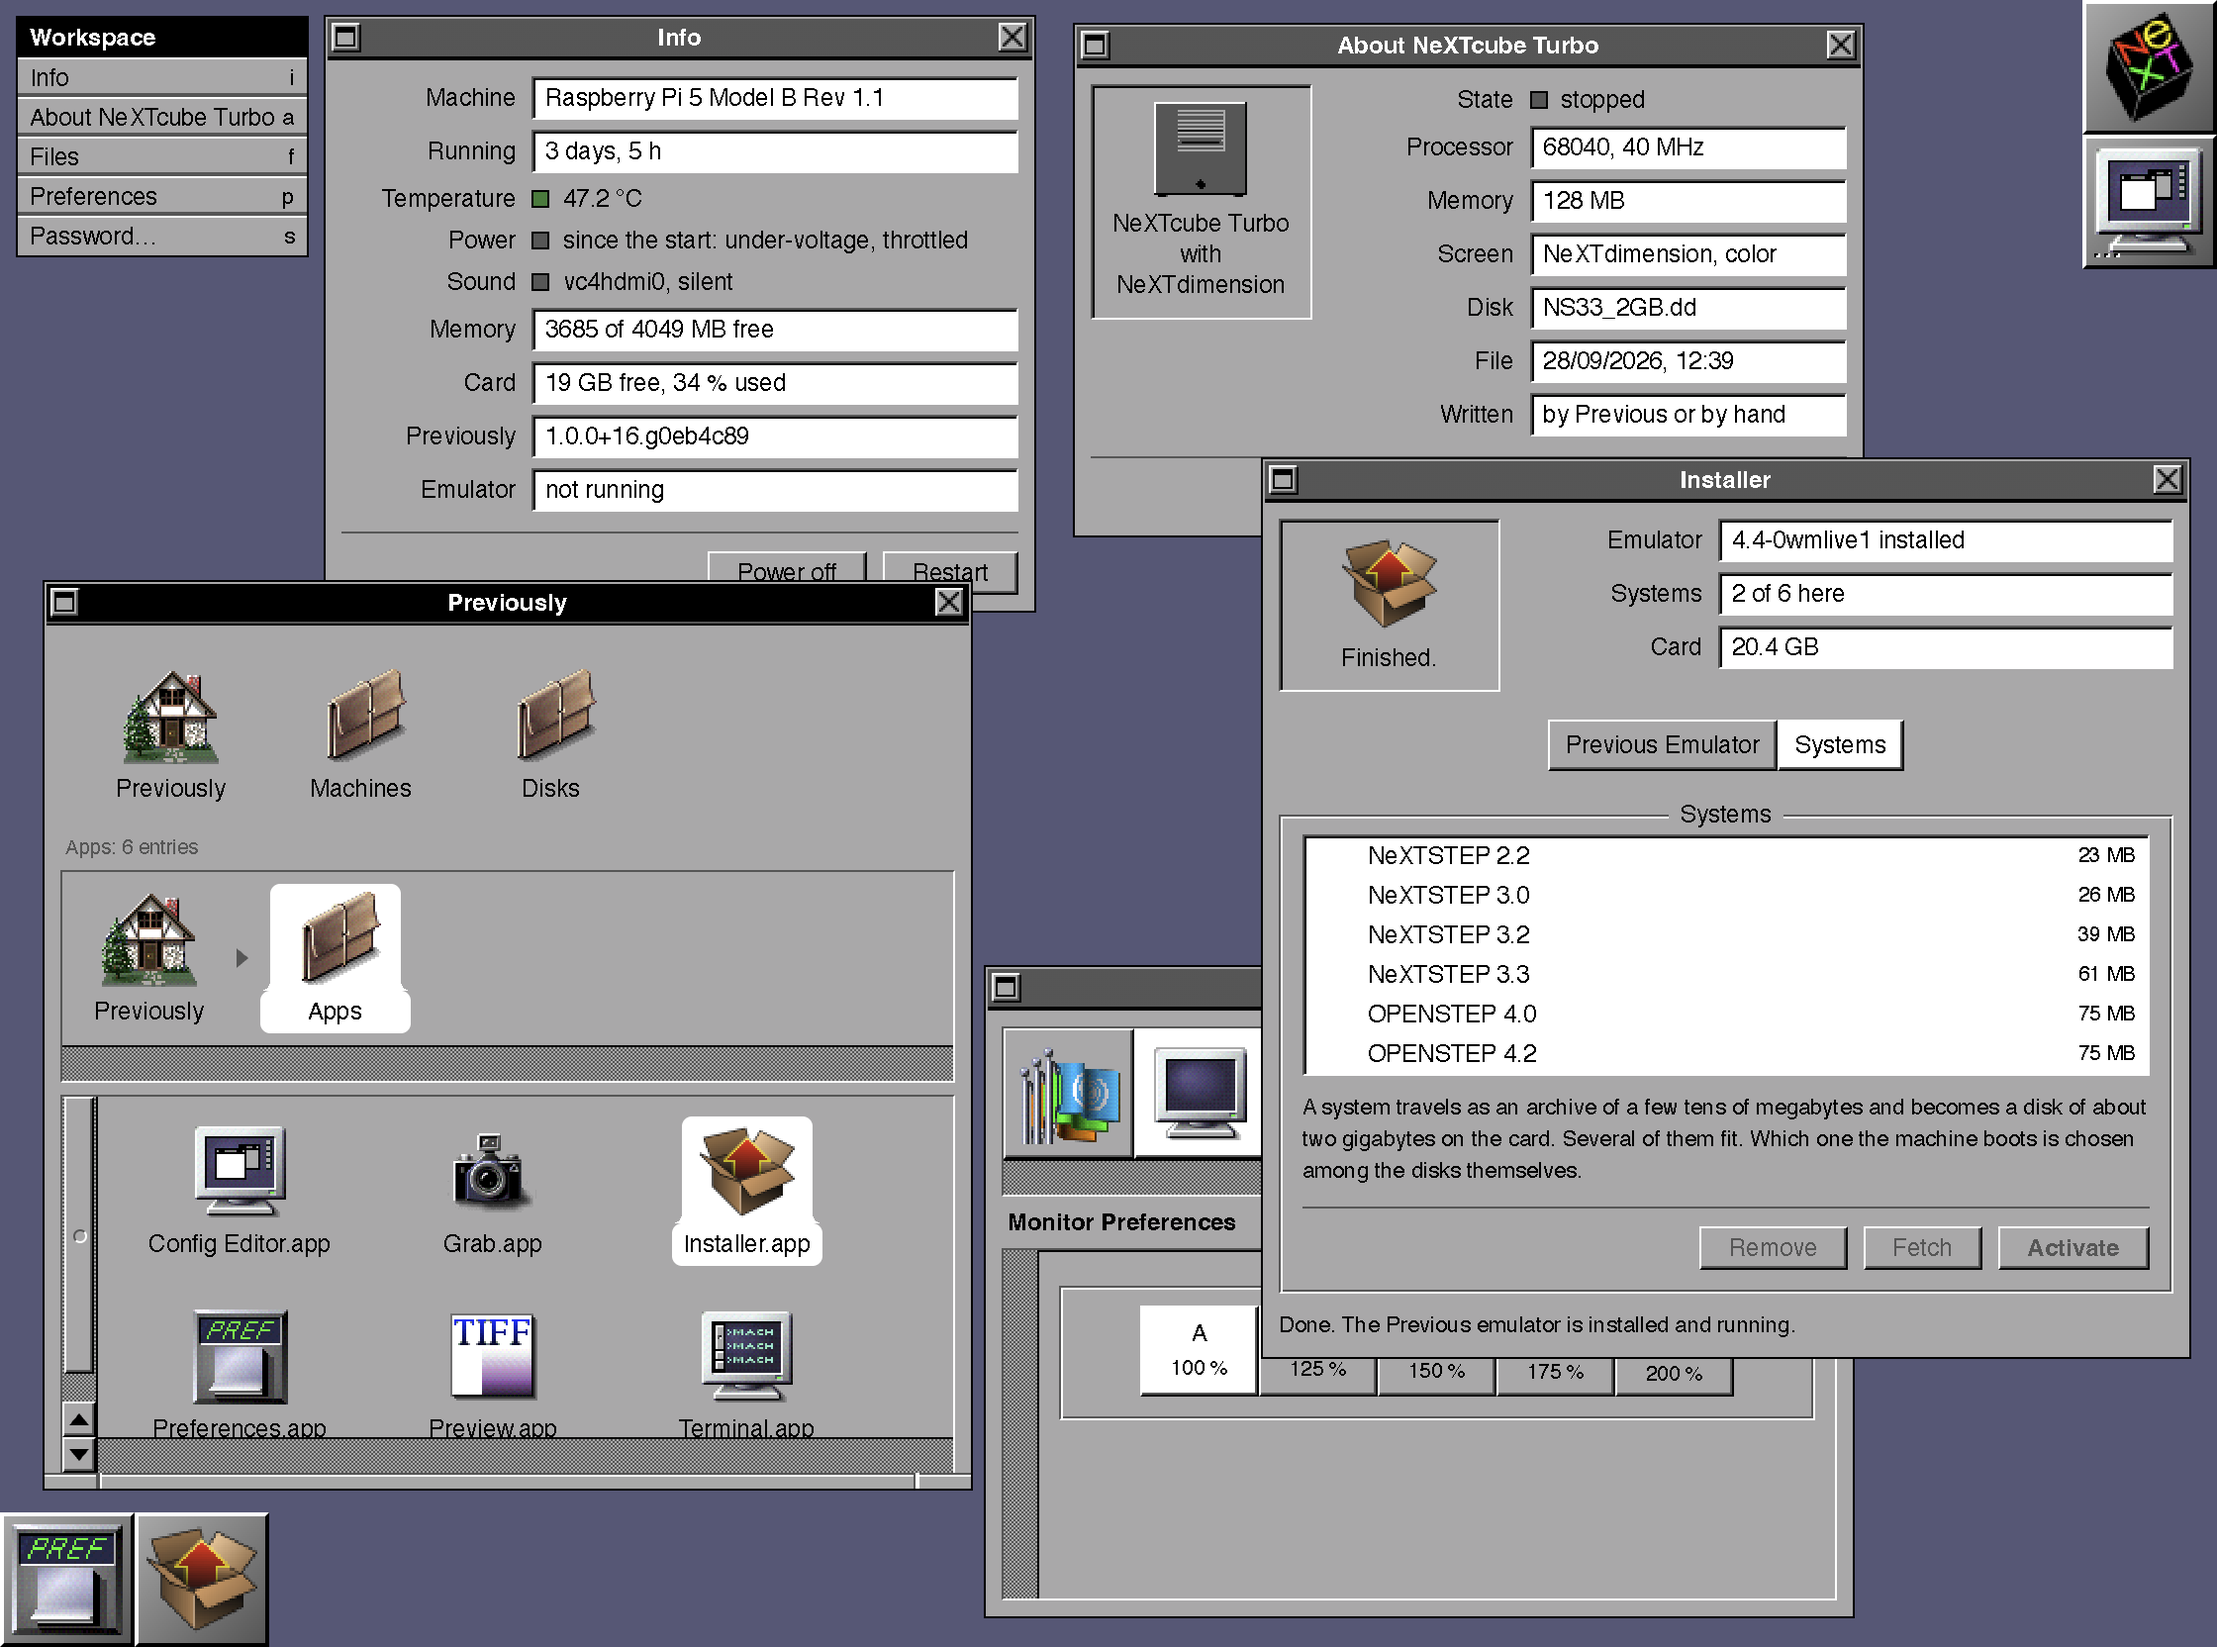
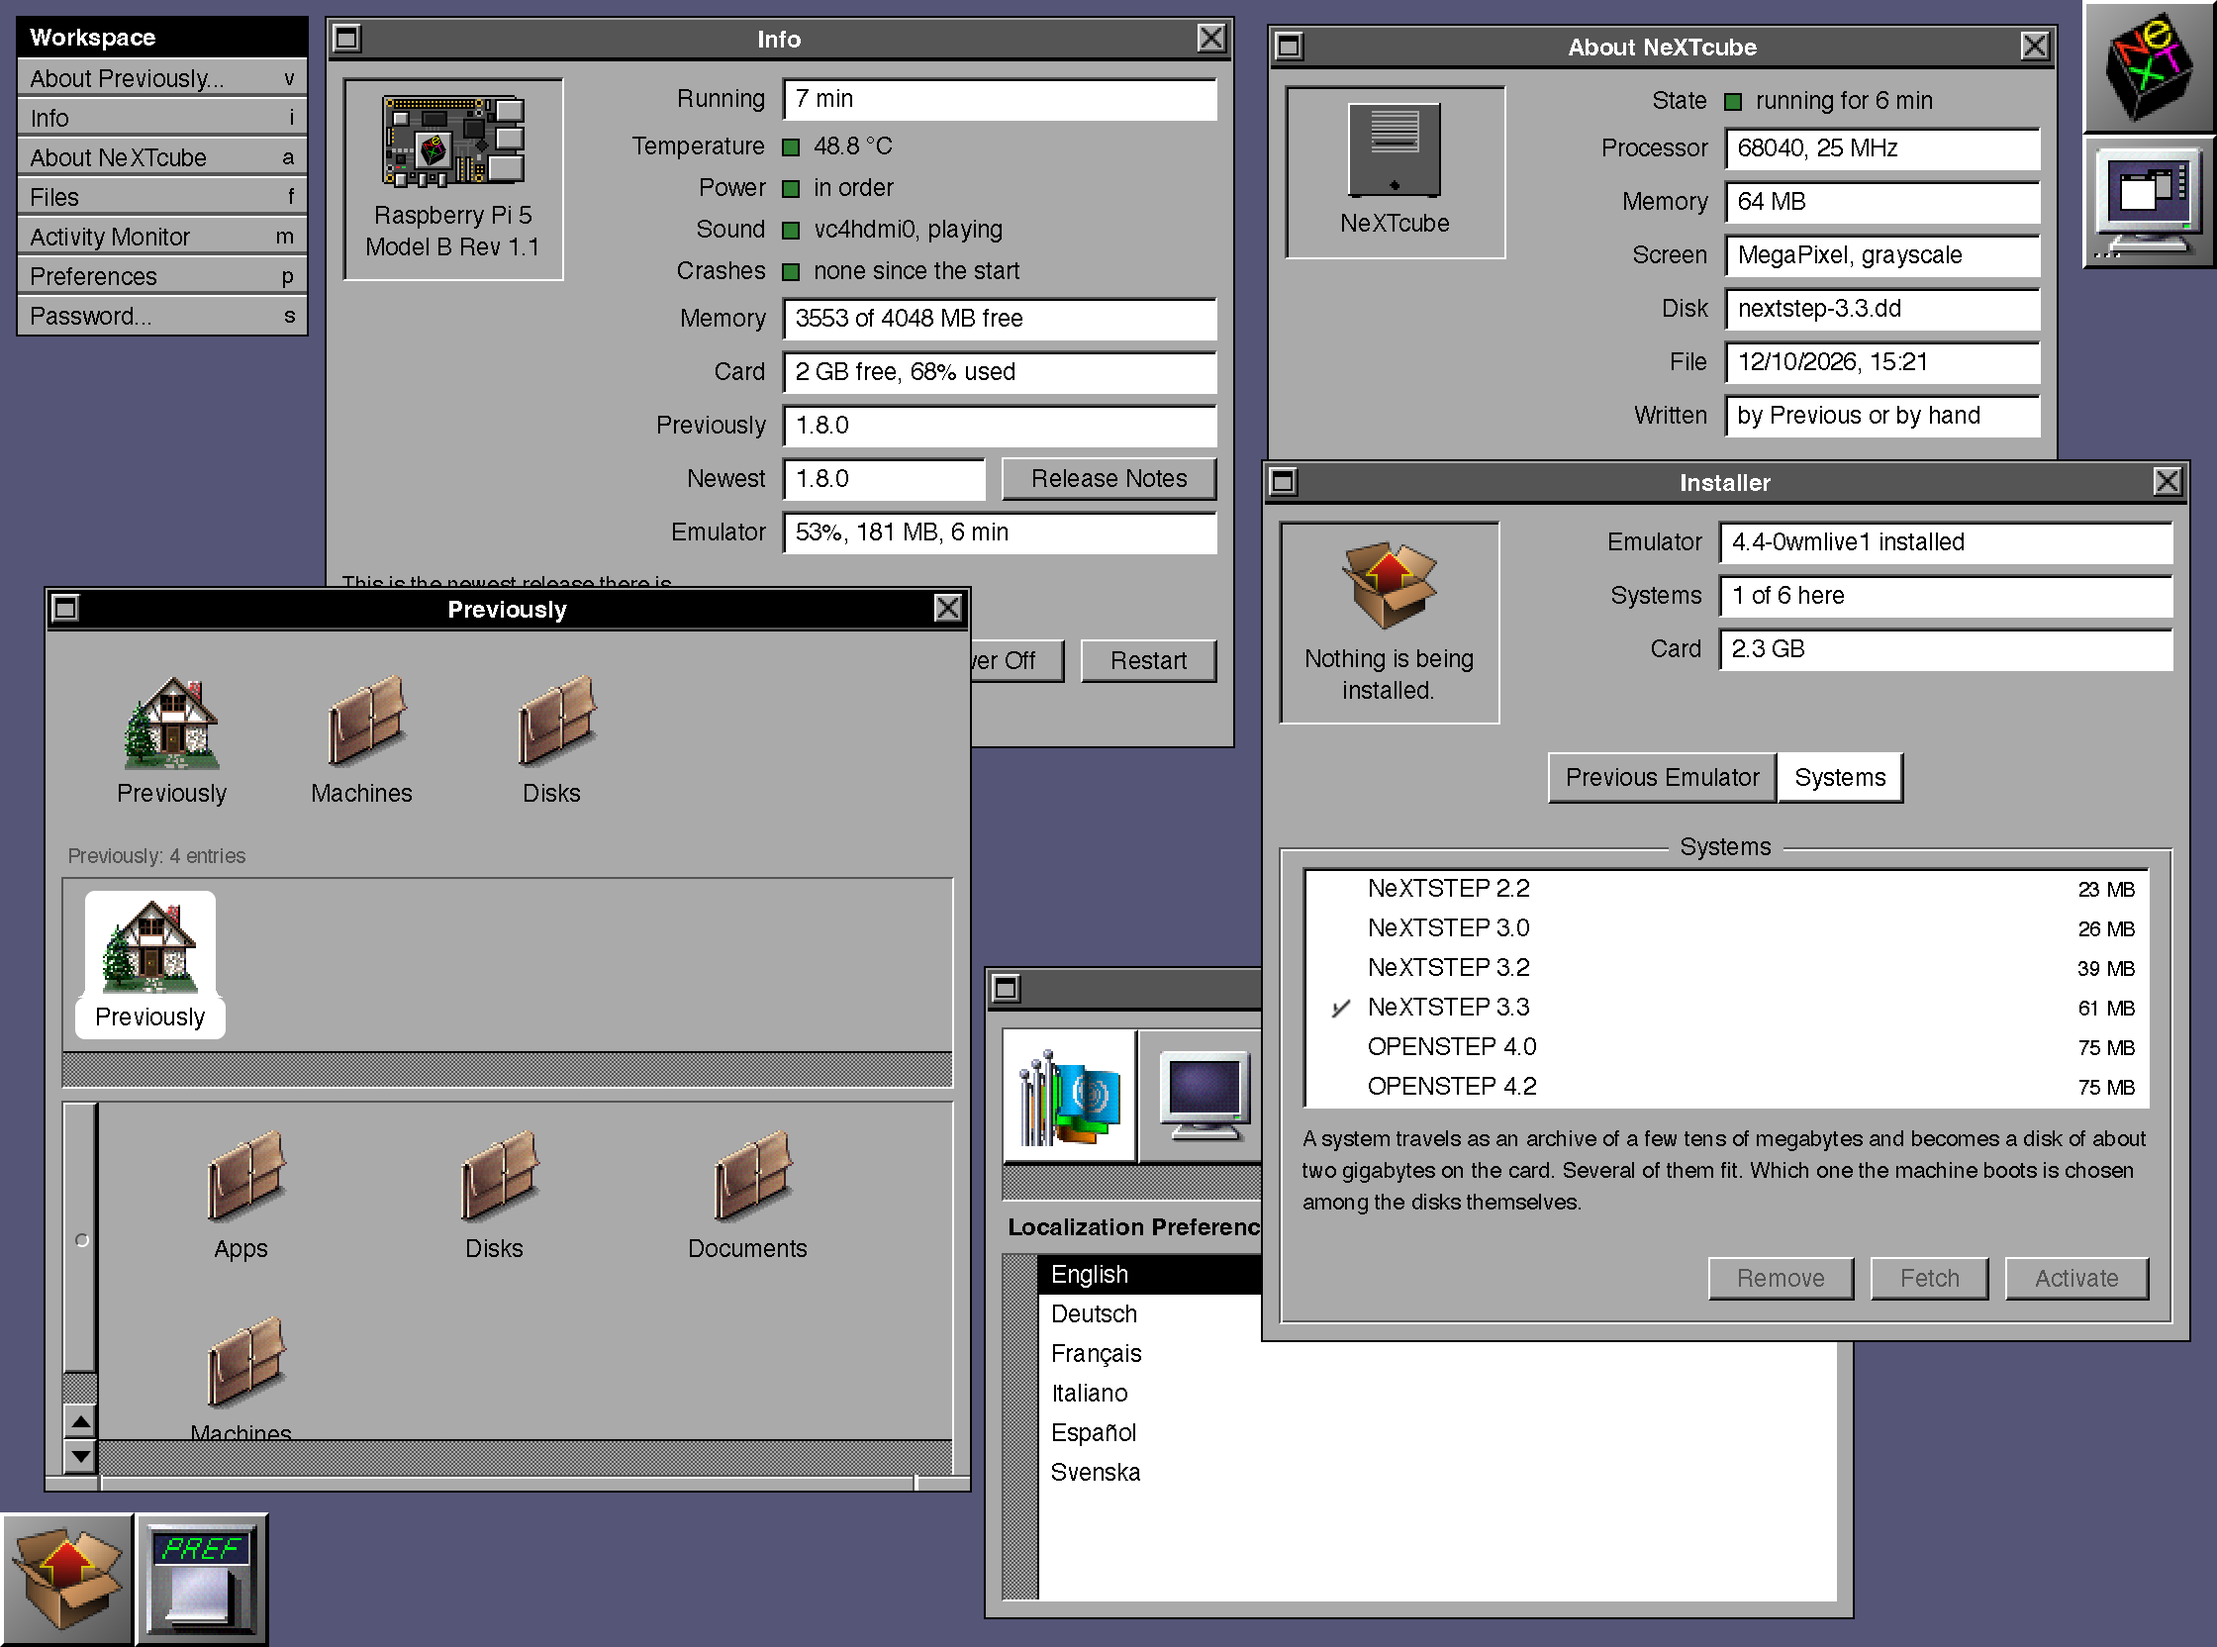
Feat: The page shows the admin of release 1.8.0 with the Raspberry Pi 5 on its Info window, and says what the installer does today
- The screenshot is taken again from next.local on 1.8.0, and the browser frame around it shows next.local:8810.
- The install steps say that the line installs the admin tool and then the rest, and Ctrl+C after that stops the watching rather than undoing anything.
- Safe to run again says what a rerun skips, without promising that any image in ~/nextstep is used.
- Color and gray are spelled the American way, and the page's locale is en_US.

Closes #36.

diff --git a/index.html b/index.html
@@ -22,7 +22,7 @@
 <meta property="og:image:width" content="1200">
 <meta property="og:image:height" content="630">
 <meta property="og:image:alt" content="A gray circuit board and the NeXT cube rushing at each other, each trailing a smear, with a pressed Merge button and the cursor that pressed it between them, over the name Previously and the line about a Raspberry Pi that boots directly into NeXTSTEP.">
-<meta property="og:locale" content="en_GB">
+<meta property="og:locale" content="en_US">
 
 <meta name="twitter:card" content="summary_large_image">
 <meta name="twitter:title" content="A Raspberry Pi that boots into NeXTSTEP">
@@ -100,7 +100,7 @@
 
         <p class="hero__lead">Previously starts straight into a NeXT machine under the
           Previous emulator. There is no desktop behind it, no login to get past, and
-          nothing on the screen but the grey NeXT panel.</p>
+          nothing on the screen but the gray NeXT panel.</p>
         <ul class="hero__facts">
           <li class="hero__fact">Raspberry Pi 4 or 5</li>
           <li class="hero__fact">Raspberry Pi OS Lite, 64 bit</li>
@@ -170,9 +170,10 @@
             <svg class="icon" aria-hidden="true"><use href="site/icons.svg#arrow-counter-clockwise"></use></svg>
           </div>
           <h3>An installation that undoes itself</h3>
-          <p class="card__text">Every step of the install script writes down how to undo
-            what it just did. Press Ctrl+C, or let a step fail, and it walks that record
-            backwards. Whatever was on the machine before is left where it was.</p>
+          <p class="card__text">Every step of the installation writes down how to undo
+            what it just did. When a step fails, it walks that record backwards, and
+            whatever was on the machine before is left where it was. The Installer window
+            in the admin then says what went wrong and can try again.</p>
         </article>
       </div>
     </div>
@@ -186,9 +187,9 @@
           The admin
         </p>
         <h2>It looks like the machine it configures</h2>
-        <p class="section__lead">Nothing here is approximated. The icons are the original
-          files out of a NeXTSTEP 3.3 disk image, the window buttons are cut pixel for
-          pixel out of the running system, and every colour, edge and raster is measured
+        <p class="section__lead">Nothing here is approximated. NeXTSTEP's icons are the
+          original files out of a NeXTSTEP 3.3 disk image, the window buttons are cut pixel
+          for pixel out of the running system, and every color, edge and raster is measured
           off it.</p>
       </div>
 
@@ -198,10 +199,10 @@
       <div class="browser">
         <div class="browser__bar">
           <div class="browser__lights" aria-hidden="true"><span></span><span></span><span></span></div>
-          <div class="browser__address">cube.local:8810</div>
+          <div class="browser__address">next.local:8810</div>
         </div>
         <img src="site/shots/workspace.png" width="2240" height="1664" loading="lazy"
-             alt="The admin tool in a browser: the Workspace menu, a panel of the Raspberry Pi's own readings, an Info panel for the emulated NeXTcube, a File Viewer showing the applications as icons, the Installer offering six systems to fetch, and Preferences behind them.">
+             alt="The admin tool in a browser: the Workspace menu, the Info window with a drawing of the Raspberry Pi 5 above its model and the board's readings, the About window of the emulated NeXTcube, a File Viewer of the Previously folder, the Installer listing the six systems with NeXTSTEP 3.3 checked, and the Localization module of Preferences behind it.">
       </div>
       <figcaption class="shot__caption">This is a recent screenshot of Previously. Not
         only does it look like NeXTSTEP, it feels like it, too. You'll love this admin
@@ -227,18 +228,19 @@
         <li class="step">
           <div class="step__body">
             <h3>Reach the Pi</h3>
-            <p class="step__text">Over SSH is the comfortable way, and it stays the way in
-              afterwards: the emulator owns the screen once this is done.</p>
+            <p class="step__text">Over SSH is the comfortable way. It stays the way in
+              afterwards, because the emulator owns the screen once this is done, and the
+              admin's Terminal window opens the same login in a browser.</p>
           </div>
         </li>
 
         <li class="step">
           <div class="step__body">
             <h3>Paste the line and let it finish</h3>
-            <p class="step__text">It installs the emulator from its own signed archive,
-              fetches a preinstalled disk image, writes the configuration, installs the
-              admin tool and hands the first console over. The image is NeXTSTEP 3.3, and
-              the admin swaps it for any of the six afterwards.</p>
+            <p class="step__text">It installs the admin tool, and then the emulator, a
+              preinstalled NeXTSTEP 3.3 disk, its configuration, the console and the sound,
+              and shows each step as it runs. At the end NeXTSTEP starts on the Pi's screen.
+              The admin swaps the system for any of the six afterwards.</p>
             <code class="snippet">curl -fsSL https://previous.li/install.sh | bash</code>
           </div>
         </li>
@@ -282,19 +284,21 @@
             <svg class="icon" aria-hidden="true"><use href="site/icons.svg#download-simple"></use></svg>
           </div>
           <h3>Safe to run again</h3>
-          <p class="card__text">An existing disk image, an existing configuration and a
-            startup entry that is already there are all left alone. Your own NeXTSTEP image
-            in <code>~/nextstep</code> is found and used instead of a download.</p>
+          <p class="card__text">A step that finds its work done skips itself and says so.
+            A system already on the card is not fetched again, and an existing
+            configuration is left exactly as it is, because a machine somebody has built is
+            theirs.</p>
         </article>
 
         <article class="card">
           <div class="card__icon">
             <svg class="icon" aria-hidden="true"><use href="site/icons.svg#arrow-counter-clockwise"></use></svg>
           </div>
-          <h3>Ctrl+C leaves it as it was</h3>
-          <p class="card__text">An interrupt and a failing step both walk the record of
-            changes backwards. Only this run's own changes are reversed, and a step that
-            skipped itself has nothing to take back.</p>
+          <h3>Ctrl+C stops the watching</h3>
+          <p class="card__text">Once the admin tool is installed, the Pi does the rest by
+            itself. Ctrl+C then stops the terminal from following along and nothing else,
+            and the Installer window in the admin shows how far it is. Pressed while the
+            admin tool is still being installed, it takes the tool off again.</p>
         </article>
       </div>
     </div>
